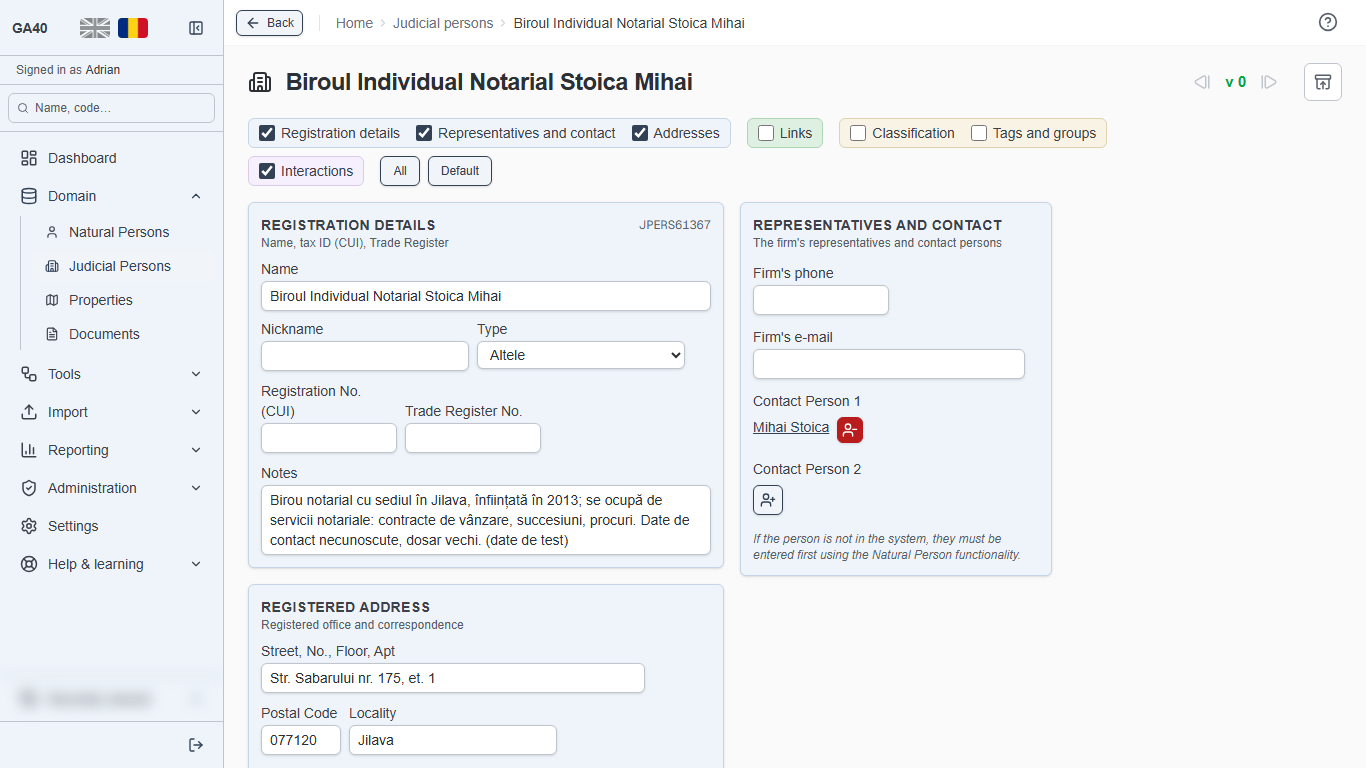
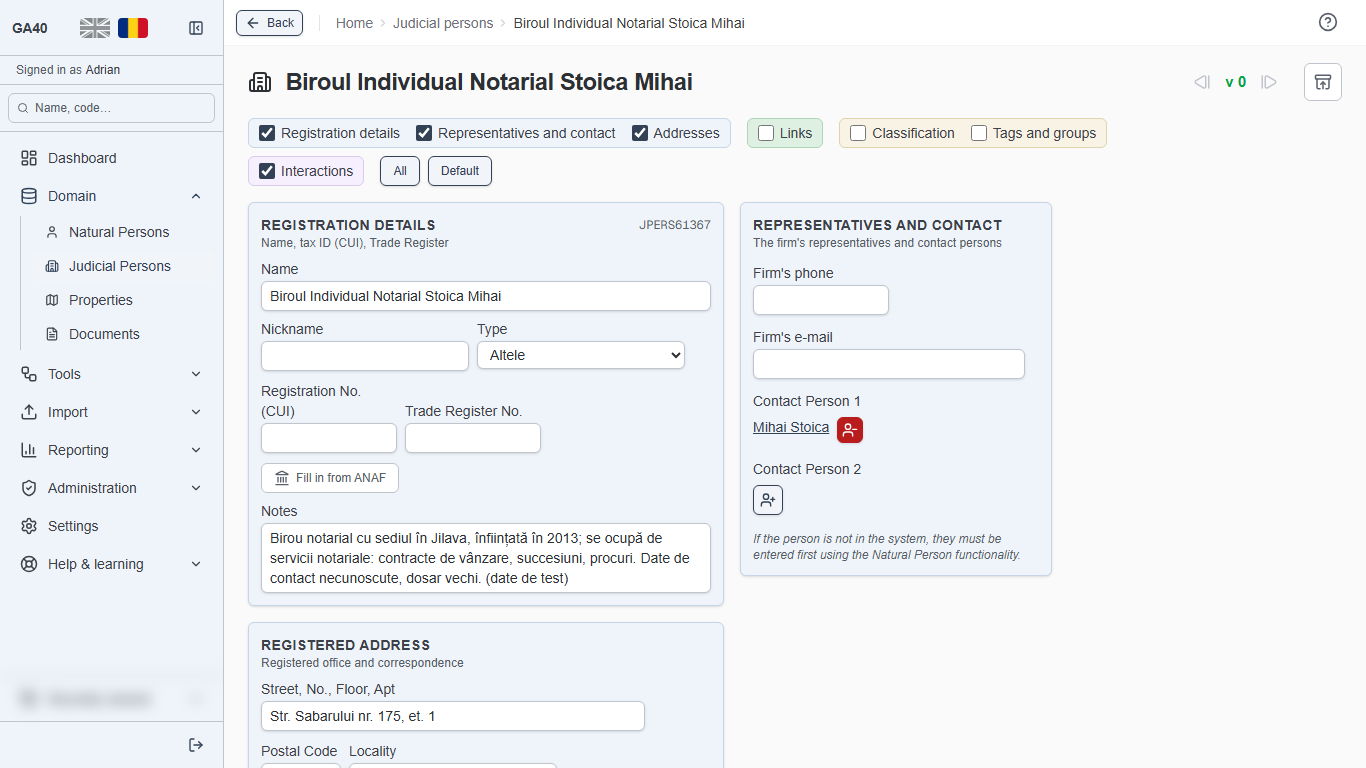
docs(testing): TC-PERS-14 automated; the company figure shows „Completează din ANAF” (#39.64)
TC-PERS-14 is `automated` on the runner's targeted run 20261017T053445Z-14295
on e653906. companies-record.png was re-shot in both languages
(20261017T054308Z-18728) and now has the new button under the CUI. It shows
the dev seed's invented notary office, with nothing that identifies a
person beyond a contact's name. The run before it, 20261017T053912Z-5155,
failed both languages on the „Pagini” figure (the page image not showing
within 60 s), with nothing in this slice touching that screen. The
re-run was green.

Claude-Session: https://claude.ai/code/session_01HAw7HzTB6iN96oSz25xmre

Changed region(s): [[0.1845, 0.5938, 0.5227, 1.0]]

diff --git a/docs/testing/TEST-CATALOGUE.md b/docs/testing/TEST-CATALOGUE.md
@@ -94,7 +94,7 @@ fixed fixture where the existing one will do.
 | [TC-PERS-11](cases/TC-PERS-11.md) | „Decedat”: bifat, datat, refuzat înainte de naștere, debifat; vârsta se oprește la deces | person | happy | — | `automated` | 2026-10-14 | `e2e/person/person-deceased.spec.ts` |
 | [TC-PERS-12](cases/TC-PERS-12.md) | Lista persoanelor fizice filtrată după „Tip profesional” și „Decedat”: numărul de lângă fiecare valoare, adresa, „Șterge filtrele” | person | happy | — | `automated` | 2026-10-16 | `e2e/person/person-list-filters.spec.ts` |
 | [TC-PERS-13](cases/TC-PERS-13.md) | Lista persoanelor juridice filtrată după „Tip” și CUI: numărul de lângă fiecare valoare, adresa, „Șterge filtrele” | person | happy | — | `automated` | 2026-10-16 | `e2e/person/company-list-filters.spec.ts` |
-| [TC-PERS-14](cases/TC-PERS-14.md) | „Completează din ANAF” pe o persoană juridică: un CUI necunoscut, ce s-ar schimba, „Preia bifele”, „Salvează” | person | happy | — | `confirmed` | 2026-10-17 | `e2e/person/company-anaf.spec.ts` |
+| [TC-PERS-14](cases/TC-PERS-14.md) | „Completează din ANAF” pe o persoană juridică: un CUI necunoscut, ce s-ar schimba, „Preia bifele”, „Salvează” | person | happy | — | `automated` | 2026-10-17 | `e2e/person/company-anaf.spec.ts` |
 | [TC-DOC-01](cases/TC-DOC-01.md) | Act creat, pagină atașată, pagina se deschide | document | happy | `01.smoke.one.property` | `automated` | 2026-10-02 | `e2e/document/document-page.spec.ts` |
 | [TC-DOC-02](cases/TC-DOC-02.md) | Un „Subiect" pe mai multe rânduri împinge „Note extinse" în jos, în vizualizare și în editare | document | happy | — | `automated` | 2026-10-02 | `e2e/document/subject-grows.spec.ts` |
 | [TC-DOC-03](cases/TC-DOC-03.md) | Un PAD: „Detalii act" fără panou de emitere; emitentul, numărul și data în „Identificarea actului", „Data" pe un rând | document | happy | — | `automated` | 2026-10-07 | `e2e/document/type-fields-tile.spec.ts` |

diff --git a/docs/testing/cases/TC-PERS-14.md b/docs/testing/cases/TC-PERS-14.md
@@ -5,7 +5,7 @@
 | **Area** | person |
 | **Kind** | happy |
 | **Data** | — |
-| **State** | `confirmed` |
+| **State** | `automated` |
 | **Last green** | 2026-10-17 |
 
 ## What this proves
@@ -64,3 +64,7 @@ away and the server's later ask was answered, as designed. Deleted (204).
 **2026-10-17 — run 4, `confirmed` (Slice #39.64).** The same, the file unchanged: every step as written; the CUI 12
 answer in 1.0 s, step 3's in 4.9 s, step 6's in 1.0 s. Deleted (204). `e2e/person/company-anaf.spec.ts` translates
 it, with ANAF's answer recorded.
+
+**2026-10-17 — `automated` (Slice #39.64).** The test runner's targeted run 20261017T053445Z-14295 on e653906 ran its
+spec green, with TC-PERS-02, TC-PERS-09 and the other list and record specs the width guard reads, lint, tsc and 36
+jest suites.
